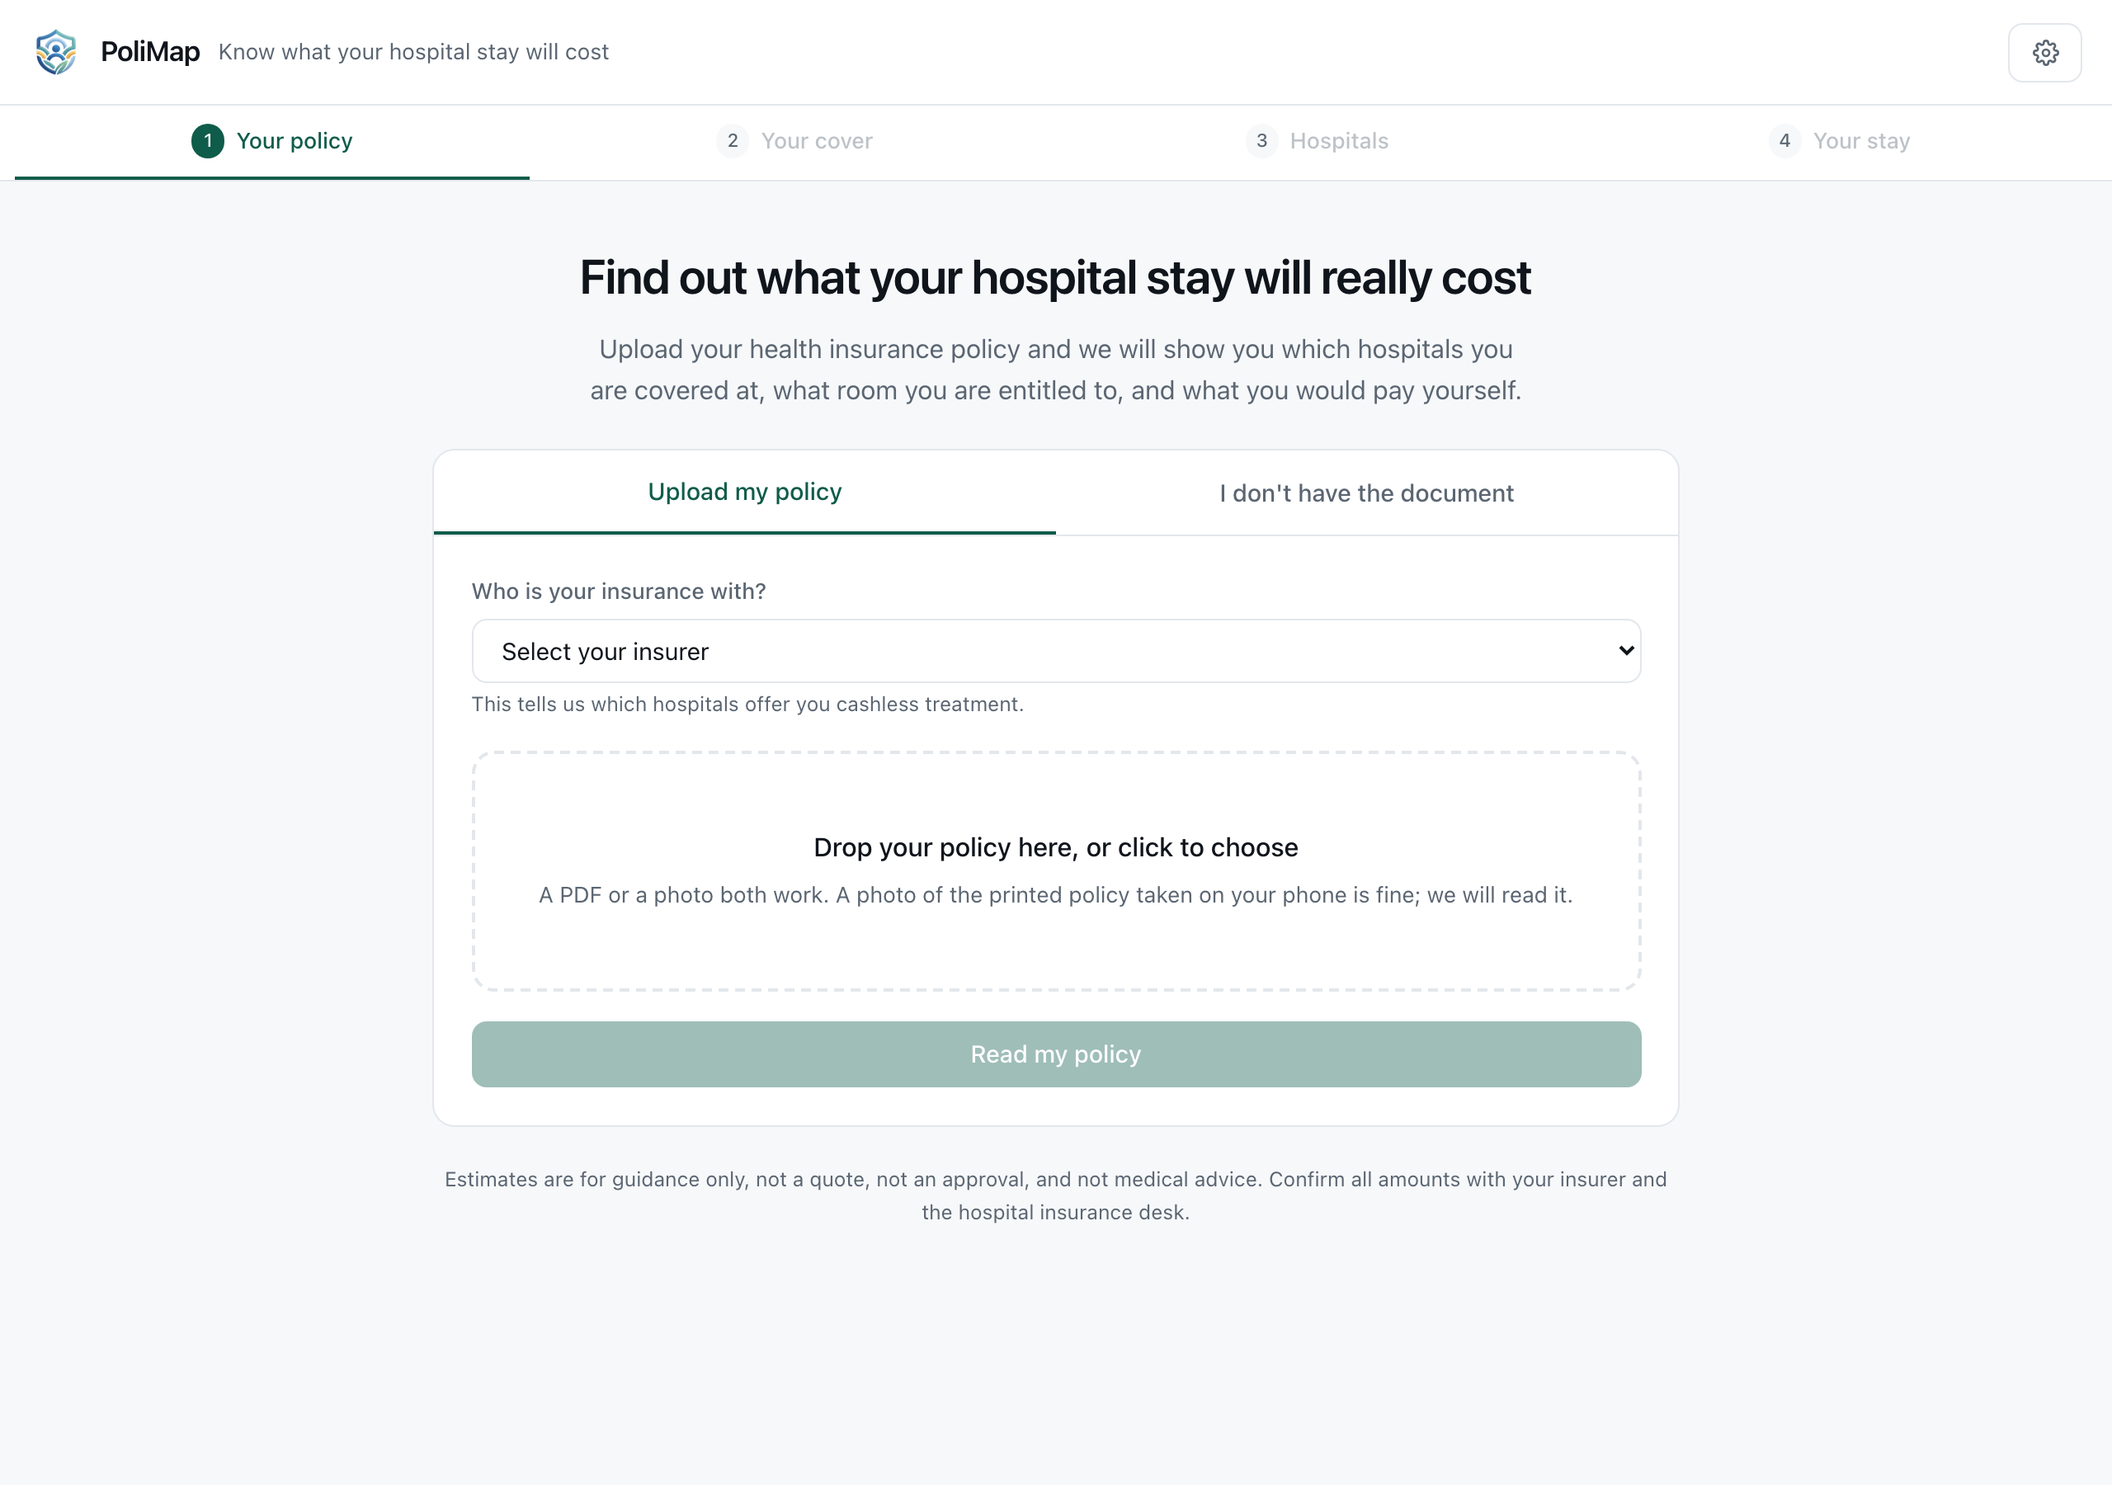
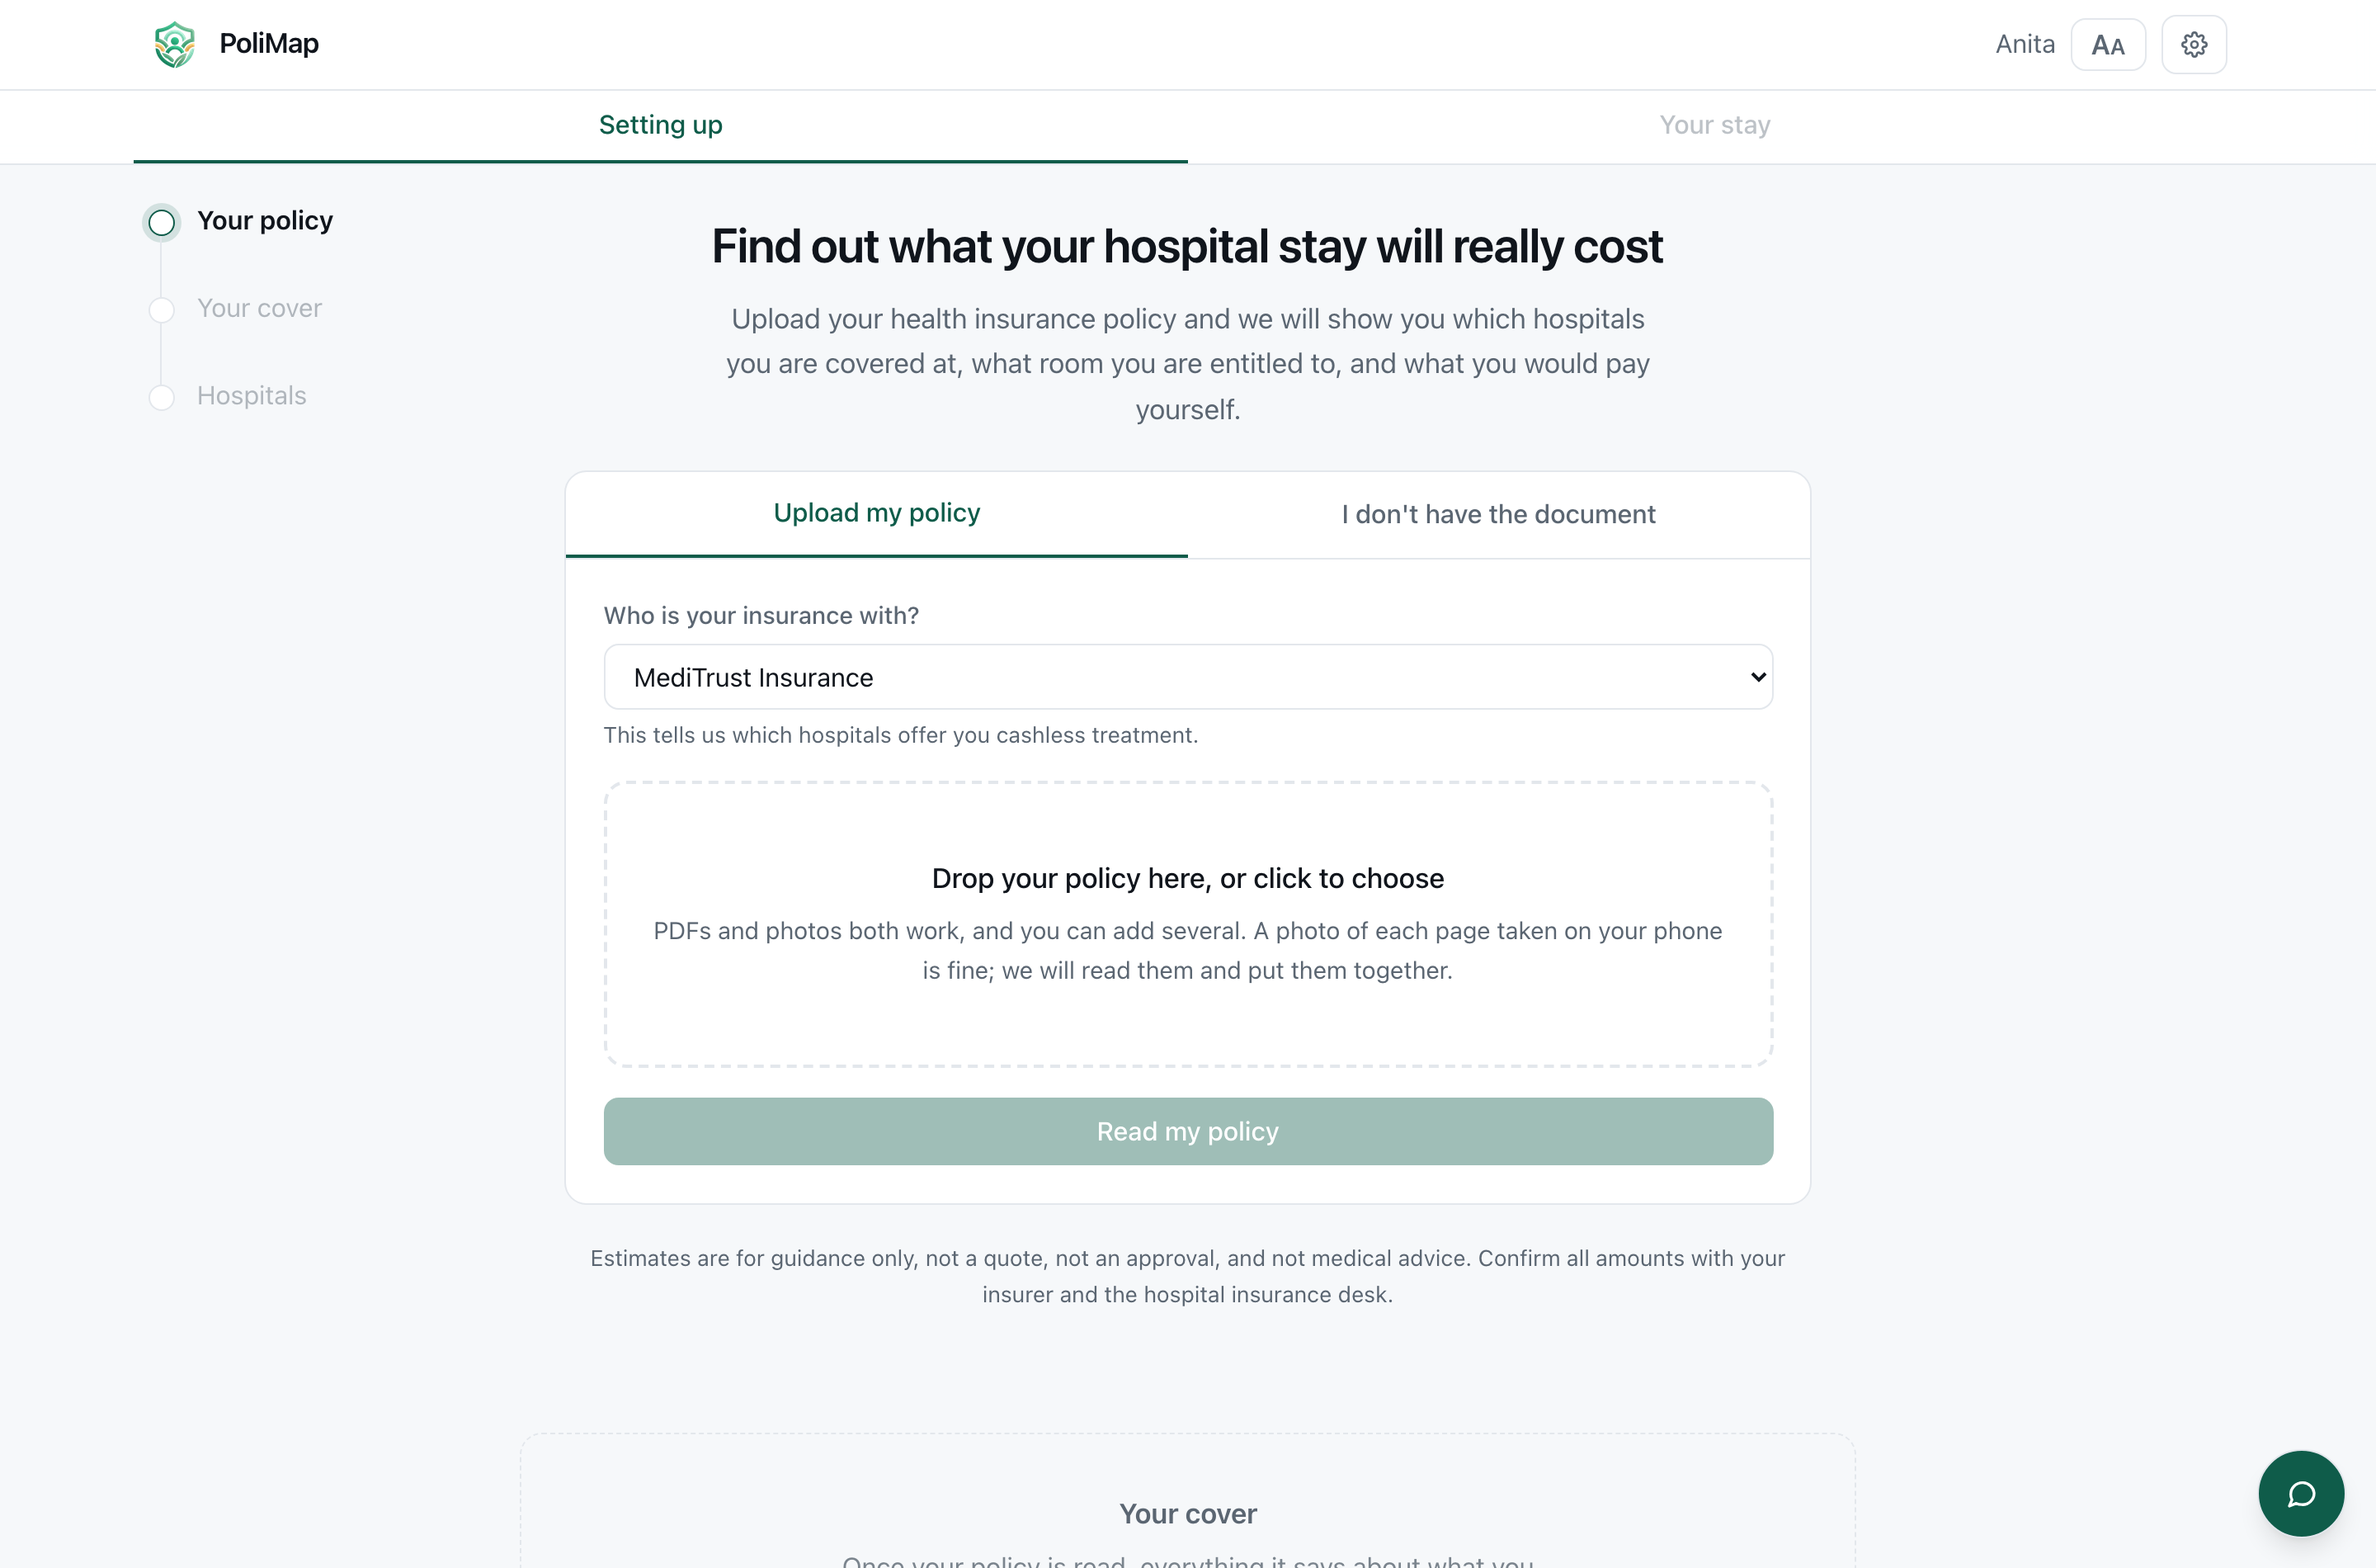
Re-photograph the app, and sit the mark level with the word
Every screenshot in the README was of a product that no longer exists. They
predated the sign-in screen, the help desk, the language picker and the current
logo, so the first thing anybody saw was an old blue mark on a screen with no
name field and no help button. All eleven are retaken by driving the running
app, and the two that were left as comments are taken as well: the language
picker in Kannada, and the help desk answering over the screen it was opened
from.

The header was measured rather than eyeballed this time, which is how the last
attempt went wrong. GitHub's own renderer produced the HTML, GitHub's own
stylesheet styled it, and the mark and the wordmark were then separated by
pixel and their vertical extents compared. That showed the real defect: `align`
is the only vertical control GitHub leaves, since it replaces the style
attribute with its own, and `align="middle"` puts the image box's centre at the
baseline plus half the x-height, which is below the centre of the cap band. The
mark sat 12px low at every size, so no size would ever have fixed it, and
changing the height alone was moving the wrong lever.

The remaining lever is the artwork, so `logo-inline.png` is rebuilt from the
current 512px mark with transparent padding beneath it, which lifts the mark
inside its own box. Padding and height were swept together and measured at each
step: the mark is now level with the cap band to within a pixel, at about one
[…]

diff --git a/README.md b/README.md
@@ -1,6 +1,6 @@
 <h1>
-  <img src="docs/images/logo-inline.png" alt="" height="40" align="middle">
-  <span>&nbsp;PoliMap</span>
+  <img src="docs/images/logo-inline.png" height="32" alt="PoliMap logo" valign="middle">
+  PoliMap
 </h1>
 
 **Insurance-aware hospital decision support for patients and caregivers in India.**
@@ -187,7 +187,7 @@ English rather than a raw key. That fallback is invisible on screen, so a check
 runs with the linter and fails the build on any key that does not resolve in
 every language, or any translation no call site can reach.
 
-<!-- screenshot: the language picker at the top of Settings, in Kannada -->
+![The language picker, with the app in Kannada](docs/images/12-language.png)
 
 ### 8. A help desk that answers and files, and can do nothing else
 
@@ -202,21 +202,41 @@ not even given a session id: not being handed somebody's policy is a stronger
 guarantee than being trusted not to read it. Everything in this app is what a
 claim gets estimated from, so it stays in the user's hands.
 
-Every answer is written in this repository. With no model reachable the
-knowledge base answers on its own by matching what was asked; with one, that
-same knowledge is the only ground the model is given, so the difference between
-the two paths is fluency rather than substance. Three things are refused before
-any model sees them:
+Every answer is written in this repository, in `help/knowledge.yaml`. With no
+model reachable the knowledge base answers on its own by matching what was
+asked; with one, that same knowledge is the only ground the model is given, so
+the difference between the two paths is fluency rather than substance.
+
+The answers and the refusals are YAML rather than Python because they are text
+and patterns, not logic. Every answer the desk can give, and every question it
+turns away, can be read end to end in two files without reading any code, and
+changing one cannot break the matching around it. Both are loaded with
+`safe_load`: YAML's full loader instantiates arbitrary objects named in a
+document, and a knowledge base is exactly the kind of file that gets edited
+casually.
+
+Four things are refused before any model sees them:
 
 - **Anything clinical.** Sent to the treating doctor, where it belongs.
 - **Anything asking what an insurer will decide.** Only the insurer can decide a
   claim; the app can only show what the policy says.
 - **Anything asking the desk to act.** It says so plainly and points at where
   the user can do it themselves.
+- **Anything after somebody's data**, the system prompt, or a key. There is
+  nothing to fetch, and saying so beats letting a model improvise about data it
+  cannot see.
 
 Getting that filter right took two passes. The first version refused "whose name
 should I enter", which is the single question the desk most exists to answer,
 because it read the shape of the question rather than its subject.
+
+A drafted answer is checked on the way out as well. The payoff of a successful
+injection is not the model being rude, it is a link or a phone number for
+somebody in a hospital to act on, so a draft carrying one is dropped, along with
+a draft that recites its instructions or claims to have changed something.
+Dropped, not edited: text that has been steered somewhere cannot be repaired by
+deleting the evidence of it, and the fallback is the written answer, so the
+worst case is a duller reply rather than a wrong one.
 
 Nothing is kept. Closing it, starting a new chat or changing name loses the
 conversation, which is the honest behaviour when there is nowhere private to put
@@ -227,7 +247,7 @@ Settings. The tracker shows the first stage and says plainly that nothing is
 working on it, because there is no support desk behind this app and a status bar
 that crept along on its own would be the one dishonest thing in it.
 
-<!-- screenshot: the help desk open over the cover screen, with a question answered -->
+![The help desk, answering over the screen it was opened from](docs/images/13-helpdesk.png)
 
 ---
 
